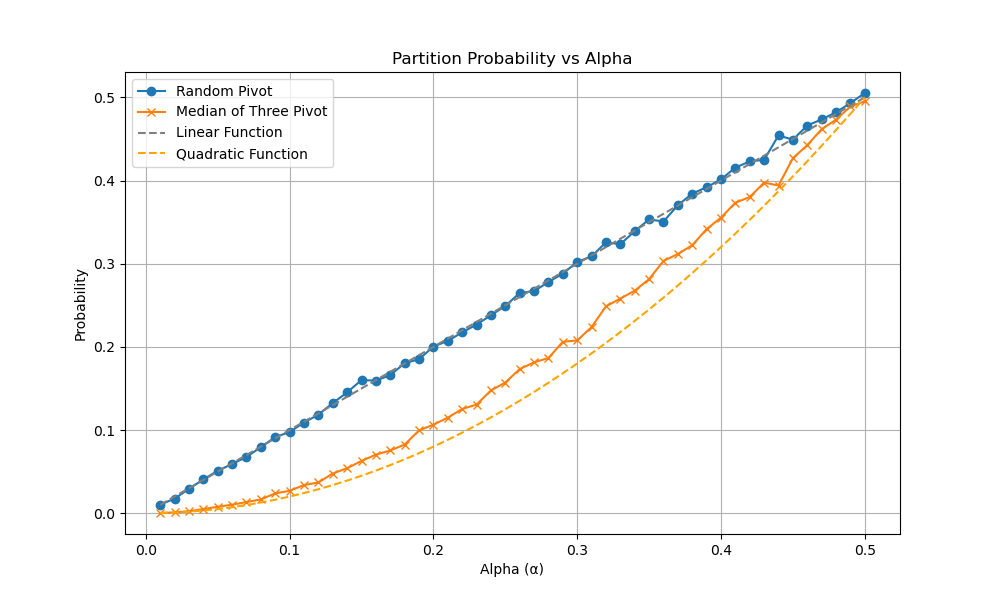
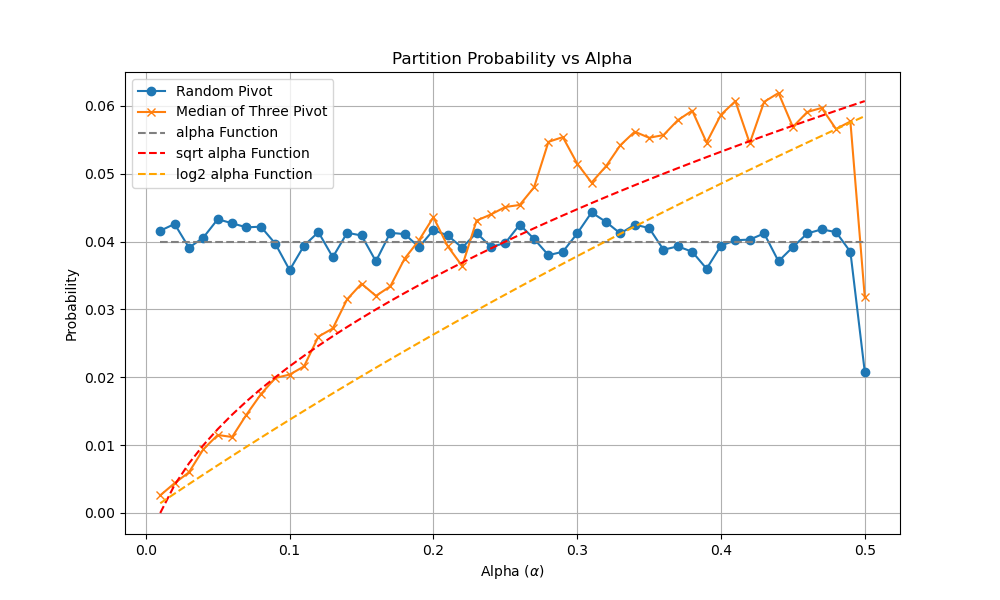
.

diff --git a/4_semester_2025/aisd/cw/1L4.py b/4_semester_2025/aisd/cw/1L4.py
@@ -17,7 +17,7 @@ def partition(arr, low, high, pivot_index):
     return i
 
 def simulate_trial(args):
-    """Simulate a single trial and return whether it meets the alpha condition."""
+    """Simulate a single trial and return the distribution of the partition sizes"""
     n, alpha, pivot_strategy = args
     arr = np.random.randint(0, 1000, n)
     low, high = 0, len(arr) - 1
@@ -36,25 +36,42 @@ def simulate_trial(args):
     total_size = left_size + right_size + 1
     left_ratio = left_size / total_size
     
-    return 1 if left_ratio <= alpha else 0
+    # return 1 if left_ratio <= alpha else 0
+    return 1 if (left_ratio == alpha or left_ratio == 1 - alpha) else 0
 
 def simulate_partition_probabilities(n, alpha_values, pivot_strategy, trials=10000):
     """Simulate partition probabilities using multiprocessing."""
-    probabilities = []
-    num_processes = cpu_count()
+    probabilities = {alpha: 0 for alpha in alpha_values}
     
+    for i in range(trials):
+        print(f"Trial {i}")
+        arr = np.random.randint(0, 1000, n)
+        low, high = 0, len(arr) - 1    
+       
+        if pivot_strategy == "random":
+            pivot_index = randint(low, high)
+        elif pivot_strategy == "median_of_three":
+            pivot_candidates = sample(range(low, high + 1), 3)
+            pivot_index = sorted(pivot_candidates, key=lambda x: arr[x])[1]
+        else:
+            raise ValueError("Invalid pivot strategy")
+    
+        partition_index = partition(arr, low, high, pivot_index)
+        left_size = partition_index - low
+        right_size = high - partition_index
+        total_size = left_size + right_size + 1
+        left_ratio = left_size / total_size
+
+        ratio = min(left_ratio, 1 - left_ratio)
+        for alpha in alpha_values:
+            if alpha - 0.01 <= ratio < alpha + 0.01:
+                probabilities[alpha] += 1
+        
+    # Normalize probabilities
     for alpha in alpha_values:
-        print(f"Simulating for alpha = {alpha:.2f} with pivot strategy: {pivot_strategy}")
-        
-        trial_args = [(n, alpha, pivot_strategy) for _ in range(trials)]
-        
-        with Pool(processes=num_processes) as pool:
-            results = pool.map(simulate_trial, trial_args)
-        
-        count = sum(results)
-        probabilities.append(count / trials)
-    
-    return probabilities
+        probabilities[alpha] /= trials
+
+    return [probabilities[alpha] for alpha in alpha_values]
 
 
 def main():
@@ -71,11 +88,11 @@ def main():
     plt.plot(alpha_values, random_pivot_probs, label="Random Pivot", marker='o')
     plt.plot(alpha_values, median_of_three_probs, label="Median of Three Pivot", marker='x')
 
-    plt.plot(alpha_values, alpha_values, label="\alpha Function", linestyle='--', color='gray')
-    plt.plot(alpha_values, 2*alpha_values**2, label="2\alpha^2 Function", linestyle='--', color='orange')
+    plt.plot(alpha_values, [0.04 for i in alpha_values], label="alpha Function", linestyle='--', color='gray')
+    plt.plot(alpha_values, 1/10*np.sqrt(alpha_values)-0.01, label="sqrt alpha Function", linestyle='--', color='red')
+    plt.plot(alpha_values, 1/10*np.log2(alpha_values+1), label="log2 alpha Function", linestyle='--', color='orange')
 
-
-    plt.xlabel("Alpha (α)")
+    plt.xlabel("Alpha ($\\alpha$)")
     plt.ylabel("Probability")
 
 
